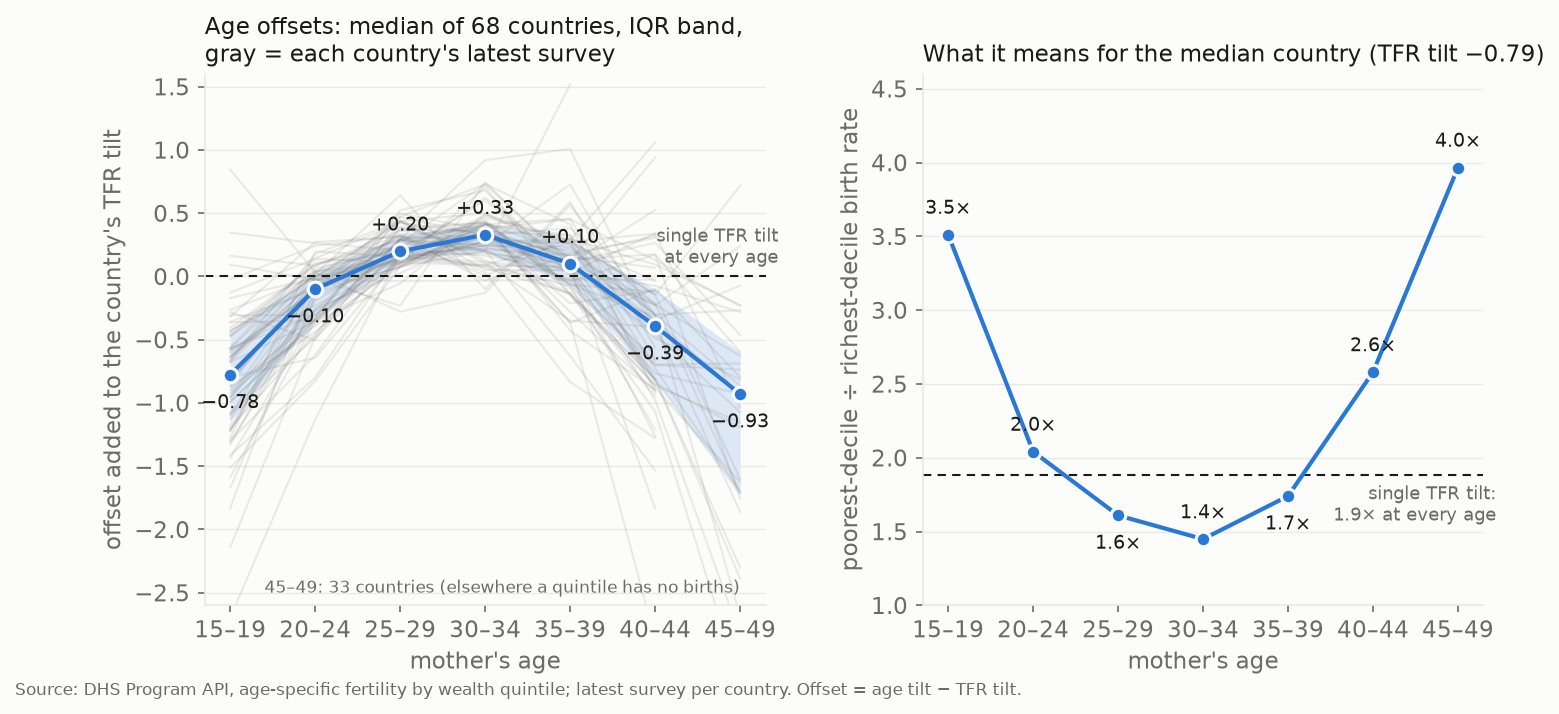
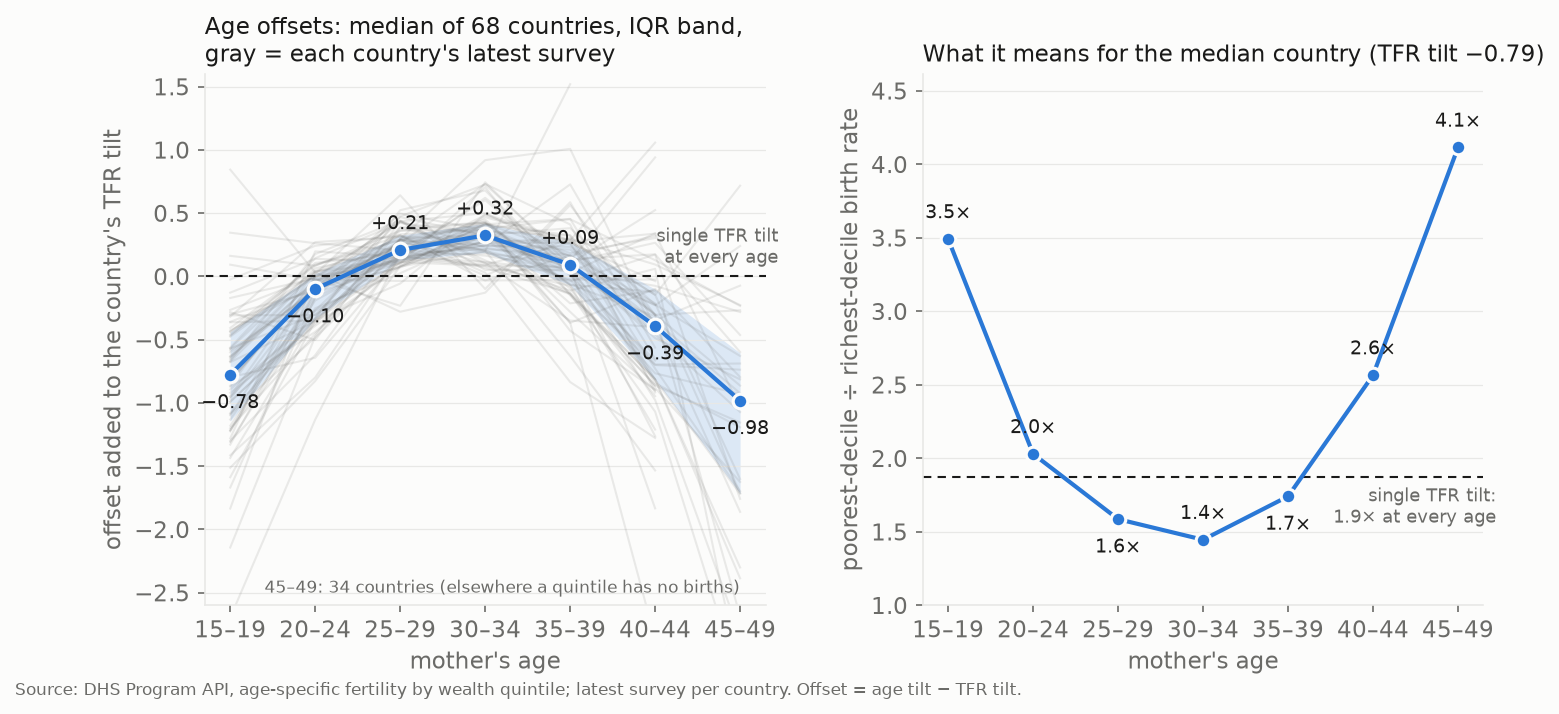
Refresh DHS data: adds Kenya 2025

diff --git a/docs/methods/fertility-by-age.md b/docs/methods/fertility-by-age.md
@@ -22,17 +22,17 @@ two columns apply them to the median country (TFR tilt −0.79).
 
 | Ages | Offset | IQR | Countries | Median country's tilt | Poorest ÷ richest decile |
 |---|---|---|---|---|---|
-| 15–19 | **−0.78** | −1.14 to −0.45 | 68 | −1.57 | 3.5× |
-| 20–24 | **−0.10** | −0.33 to 0.02 | 68 | −0.89 | 2.0× |
-| 25–29 | **0.20** | 0.13 to 0.33 | 68 | −0.59 | 1.6× |
-| 30–34 | **0.33** | 0.20 to 0.42 | 68 | −0.46 | 1.4× |
-| 35–39 | **0.10** | −0.06 to 0.27 | 68 | −0.69 | 1.7× |
+| 15–19 | **−0.78** | −1.14 to −0.44 | 68 | −1.56 | 3.5× |
+| 20–24 | **−0.10** | −0.33 to 0.02 | 68 | −0.88 | 2.0× |
+| 25–29 | **0.21** | 0.13 to 0.33 | 68 | −0.58 | 1.6× |
+| 30–34 | **0.32** | 0.19 to 0.42 | 68 | −0.46 | 1.4× |
+| 35–39 | **0.09** | −0.07 to 0.27 | 68 | −0.69 | 1.7× |
 | 40–44 | **−0.39** | −0.82 to −0.10 | 66 | −1.18 | 2.6× |
-| 45–49 | **−0.93** | −1.71 to −0.60 | 33 | −1.72 | 4.0× |
+| 45–49 | **−0.98** | −1.72 to −0.61 | 34 | −1.77 | 4.1× |
 
 A single TFR tilt would put the poorest decile at
 1.9× the richest at every age. At 45–49
-only 33 countries can be fitted: elsewhere a quintile reports no
+only 34 countries can be fitted: elsewhere a quintile reports no
 births. Rates there are small, so the offset matters little.
 
 ## Why pooled offsets, not each country's own age tilts
@@ -41,7 +41,7 @@ The per-survey age tilts are in
 [`data/fertility_age_tilts.csv`](../../data/fertility_age_tilts.csv), but a
 country's own age shape is mostly survey noise. The test: predict each
 survey's age shape (age tilt − TFR tilt) from three candidates, over
-171 pairs of consecutive surveys in the same
+172 pairs of consecutive surveys in the same
 country. Mean absolute error:
 
 | Ages | Single TFR tilt | Pooled offsets (other countries) | Same country's previous survey |
@@ -51,7 +51,7 @@ country. Mean absolute error:
 | 25–29 | 0.24 | 0.12 | 0.11 |
 | 30–34 | 0.29 | 0.17 | 0.17 |
 | 35–39 | 0.22 | 0.22 | 0.25 |
-| 40–44 | 0.60 | 0.48 | 0.53 |
+| 40–44 | 0.60 | 0.49 | 0.53 |
 | **All** | **0.39** | **0.27** | **0.27** |
 
 The age shape is real — the pooled offsets cut the error of a single tilt by
@@ -62,7 +62,7 @@ surveys, so this is a generous test for the own-country route.
 
 ## Checks
 
-- **The age rates add up.** In all 1,376 survey-quintile cells,
+- **The age rates add up.** In all 1,381 survey-quintile cells,
   5 × the sum of the age-specific rates reproduces DHS's published TFR to
   within 0.055 births per woman — the most rounding alone allows
   (TFR is published to one decimal, the age rates as whole numbers per 1,000).

diff --git a/ANALYSIS.md b/ANALYSIS.md
@@ -19,8 +19,8 @@ OG-Core's income-group demographics consume. Negative means the poor have higher
 rates; a tilt of −0.79 puts the poorest decile's rate at about
 e^(0.79×0.8) ≈ 1.9× the richest decile's.
 
-Coverage: **331 surveys with complete wealth quintets across
-78 countries**, giving 894 country-survey-margin tilts (most
+Coverage: **332 surveys with complete wealth quintets across
+78 countries**, giving 897 country-survey-margin tilts (most
 recent survey per country used for the library view below).
 
 ## Every country, individually
@@ -40,7 +40,7 @@ child-mortality samples in its 2016 survey.
 ### Use infant mortality, not under-5, for `infmort_gradient`
 
 The library carries both. They are not interchangeable, and the difference runs
-one way: across the 290 surveys that report both by wealth quintile, the
+one way: across the 291 surveys that report both by wealth quintile, the
 under-5 tilt is steeper than the infant tilt by a median
 0.14, and it is steeper in 84% of
 them. The two are strongly correlated (r = 0.94), so the shape of the
@@ -99,7 +99,7 @@ region's median on fertility.
 
 ## Stability over survey years
 
-All 894 country-survey-margin tilts plotted by fieldwork year, with a
+All 897 country-survey-margin tilts plotted by fieldwork year, with a
 rolling median. The
 pooled gradient is nearly flat across three and a half decades — wealth gradients
 are a stable structural feature, not an eroding one, so a borrowed gradient is not
@@ -121,7 +121,7 @@ The TFR tilt summarizes how many children each wealth group has. By age, the
 gradient is U-shaped: steepest for teenagers and women over 40, flattest at
 30–34. Poorer women start earlier and continue later. The library publishes
 this as **age offsets** added to a country's TFR tilt — −0.78 at
-15–19, 0.33 at 30–34, −0.93 at 45–49 — pooled across
+15–19, 0.32 at 30–34, −0.98 at 45–49 — pooled across
 countries, because a country's own age shape is mostly survey noise. Method,
 checks and the calibration recipe:
 [fertility by age](docs/methods/fertility-by-age.md).

diff --git a/README.md b/README.md
@@ -143,7 +143,7 @@ median 0.14 ([why](docs/methods/dhs-gradients.md)).
 | Adult mortality (45q15) | 15 | **−0.36** | −0.61 to −0.06 | 1.32 |
 <!-- END AUTO-GENERATED -->
 
-*(331 surveys, 78 countries; DHS API pull of 5 November 2026. Regenerate with
+*(332 surveys, 78 countries; DHS API pull of 11 November 2026. Regenerate with
 `uv run scripts/refresh.py`.)*
 
 Three structural findings (see [ANALYSIS.md](ANALYSIS.md)):

diff --git a/docs/countries/benin.md b/docs/countries/benin.md
@@ -19,7 +19,7 @@ Source: DHS Program indicator API (wealth-quintile breakdown); tilt = OLS slope 
 
 | 15–19 | 20–24 | 25–29 | 30–34 | 35–39 | 40–44 | 45–49 |
 |---|---|---|---|---|---|---|
-| −1.37 | −0.69 | −0.39 | −0.26 | −0.49 | −0.98 | −1.52 |
+| −1.37 | −0.69 | −0.38 | −0.26 | −0.50 | −0.98 | −1.57 |
 
 ## Adult mortality (census household-deaths modules)
 

diff --git a/docs/countries/cote-d-ivoire.md b/docs/countries/cote-d-ivoire.md
@@ -19,7 +19,7 @@ Source: DHS Program indicator API (wealth-quintile breakdown); tilt = OLS slope 
 
 | 15–19 | 20–24 | 25–29 | 30–34 | 35–39 | 40–44 | 45–49 |
 |---|---|---|---|---|---|---|
-| −1.66 | −0.98 | −0.69 | −0.55 | −0.78 | −1.28 | −1.81 |
+| −1.66 | −0.98 | −0.67 | −0.56 | −0.79 | −1.28 | −1.87 |
 
 ## Adult mortality (census household-deaths modules)
 

diff --git a/docs/countries/ethiopia.md b/docs/countries/ethiopia.md
@@ -19,7 +19,7 @@ Source: DHS Program indicator API (wealth-quintile breakdown); tilt = OLS slope 
 
 | 15–19 | 20–24 | 25–29 | 30–34 | 35–39 | 40–44 | 45–49 |
 |---|---|---|---|---|---|---|
-| −1.51 | −0.84 | −0.54 | −0.41 | −0.64 | −1.13 | −1.67 |
+| −1.51 | −0.84 | −0.53 | −0.41 | −0.64 | −1.13 | −1.72 |
 
 ## Adult mortality (census household-deaths modules)
 

diff --git a/docs/countries/lesotho.md b/docs/countries/lesotho.md
@@ -19,7 +19,7 @@ Source: DHS Program indicator API (wealth-quintile breakdown); tilt = OLS slope 
 
 | 15–19 | 20–24 | 25–29 | 30–34 | 35–39 | 40–44 | 45–49 |
 |---|---|---|---|---|---|---|
-| −1.71 | −1.03 | −0.74 | −0.61 | −0.83 | −1.33 | −1.86 |
+| −1.71 | −1.03 | −0.73 | −0.61 | −0.84 | −1.33 | −1.92 |
 
 ## Adult mortality (census household-deaths modules)
 

diff --git a/docs/countries/malawi.md b/docs/countries/malawi.md
@@ -19,7 +19,7 @@ Source: DHS Program indicator API (wealth-quintile breakdown); tilt = OLS slope 
 
 | 15–19 | 20–24 | 25–29 | 30–34 | 35–39 | 40–44 | 45–49 |
 |---|---|---|---|---|---|---|
-| −1.37 | −0.70 | −0.40 | −0.27 | −0.50 | −0.99 | −1.53 |
+| −1.37 | −0.70 | −0.39 | −0.27 | −0.50 | −0.99 | −1.58 |
 
 ## Adult mortality (census household-deaths modules)
 

diff --git a/docs/countries/mozambique.md b/docs/countries/mozambique.md
@@ -19,7 +19,7 @@ Source: DHS Program indicator API (wealth-quintile breakdown); tilt = OLS slope 
 
 | 15–19 | 20–24 | 25–29 | 30–34 | 35–39 | 40–44 | 45–49 |
 |---|---|---|---|---|---|---|
-| −1.89 | −1.21 | −0.92 | −0.79 | −1.01 | −1.51 | −2.04 |
+| −1.89 | −1.21 | −0.91 | −0.79 | −1.02 | −1.51 | −2.10 |
 
 ## Adult mortality (census household-deaths modules)
 

diff --git a/docs/countries/rwanda.md b/docs/countries/rwanda.md
@@ -19,7 +19,7 @@ Source: DHS Program indicator API (wealth-quintile breakdown); tilt = OLS slope 
 
 | 15–19 | 20–24 | 25–29 | 30–34 | 35–39 | 40–44 | 45–49 |
 |---|---|---|---|---|---|---|
-| −1.27 | −0.59 | −0.29 | −0.16 | −0.39 | −0.88 | −1.42 |
+| −1.27 | −0.59 | −0.28 | −0.17 | −0.40 | −0.88 | −1.47 |
 
 ## Adult mortality (census household-deaths modules)
 

diff --git a/docs/countries/senegal.md b/docs/countries/senegal.md
@@ -19,7 +19,7 @@ Source: DHS Program indicator API (wealth-quintile breakdown); tilt = OLS slope 
 
 | 15–19 | 20–24 | 25–29 | 30–34 | 35–39 | 40–44 | 45–49 |
 |---|---|---|---|---|---|---|
-| −1.54 | −0.86 | −0.56 | −0.43 | −0.66 | −1.15 | −1.69 |
+| −1.54 | −0.86 | −0.55 | −0.43 | −0.67 | −1.15 | −1.74 |
 
 ## Adult mortality (census household-deaths modules)
 

diff --git a/docs/countries/sierra-leone.md b/docs/countries/sierra-leone.md
@@ -19,7 +19,7 @@ Source: DHS Program indicator API (wealth-quintile breakdown); tilt = OLS slope 
 
 | 15–19 | 20–24 | 25–29 | 30–34 | 35–39 | 40–44 | 45–49 |
 |---|---|---|---|---|---|---|
-| −1.72 | −1.04 | −0.74 | −0.61 | −0.84 | −1.33 | −1.87 |
+| −1.72 | −1.04 | −0.73 | −0.62 | −0.85 | −1.33 | −1.92 |
 
 ## Adult mortality (census household-deaths modules)
 
